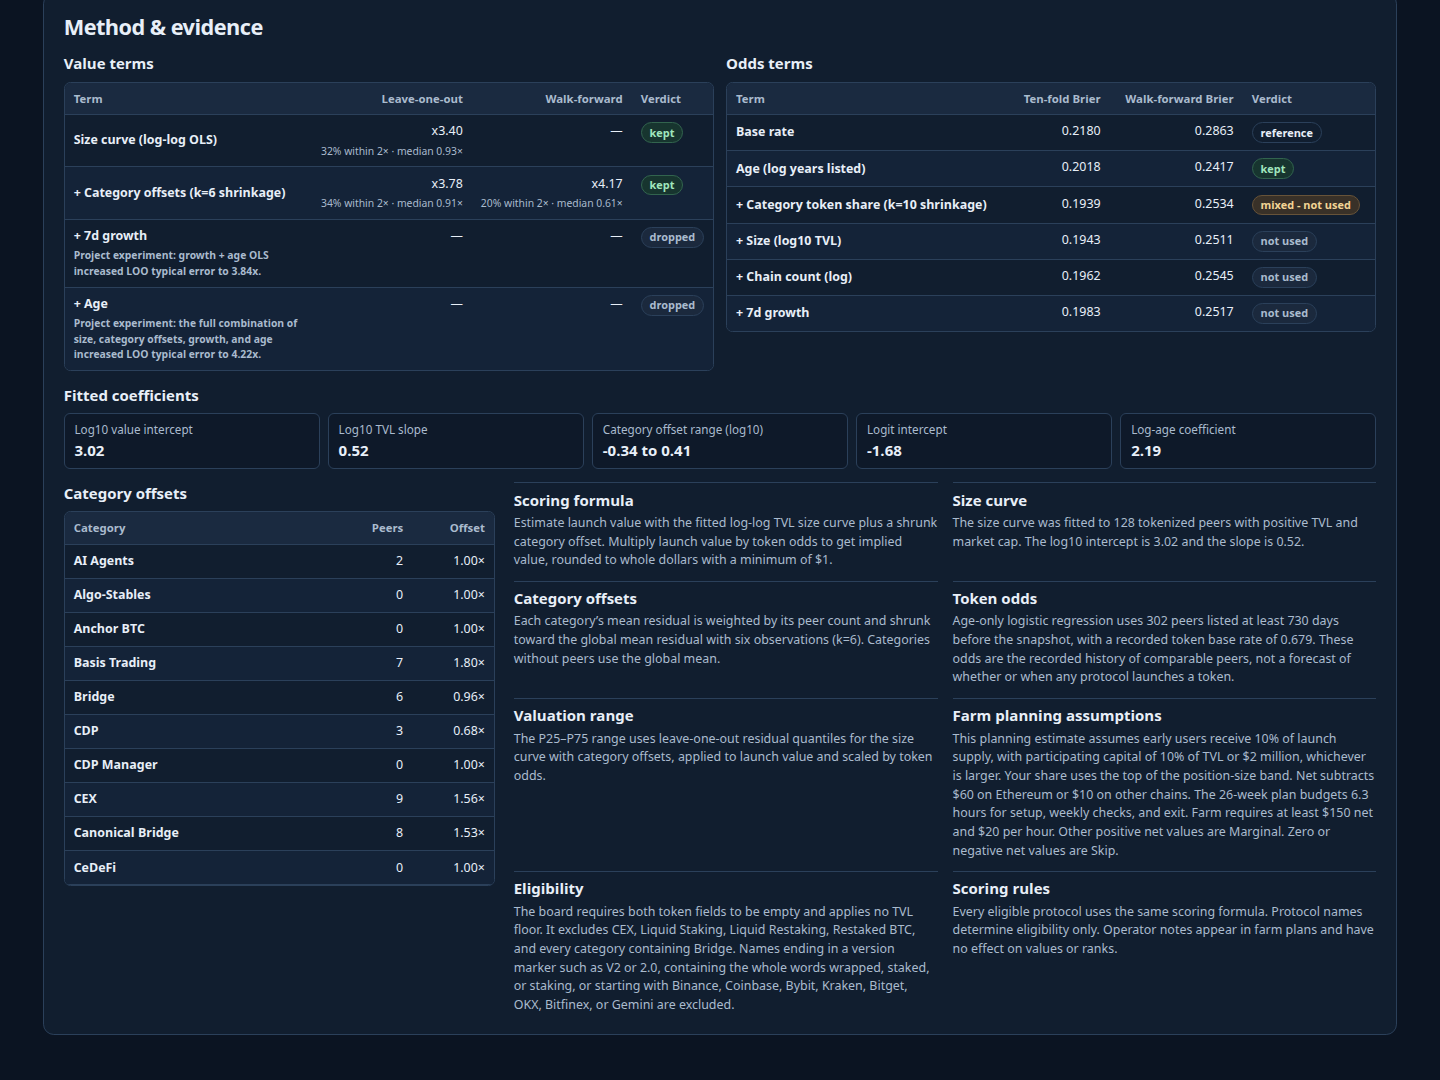
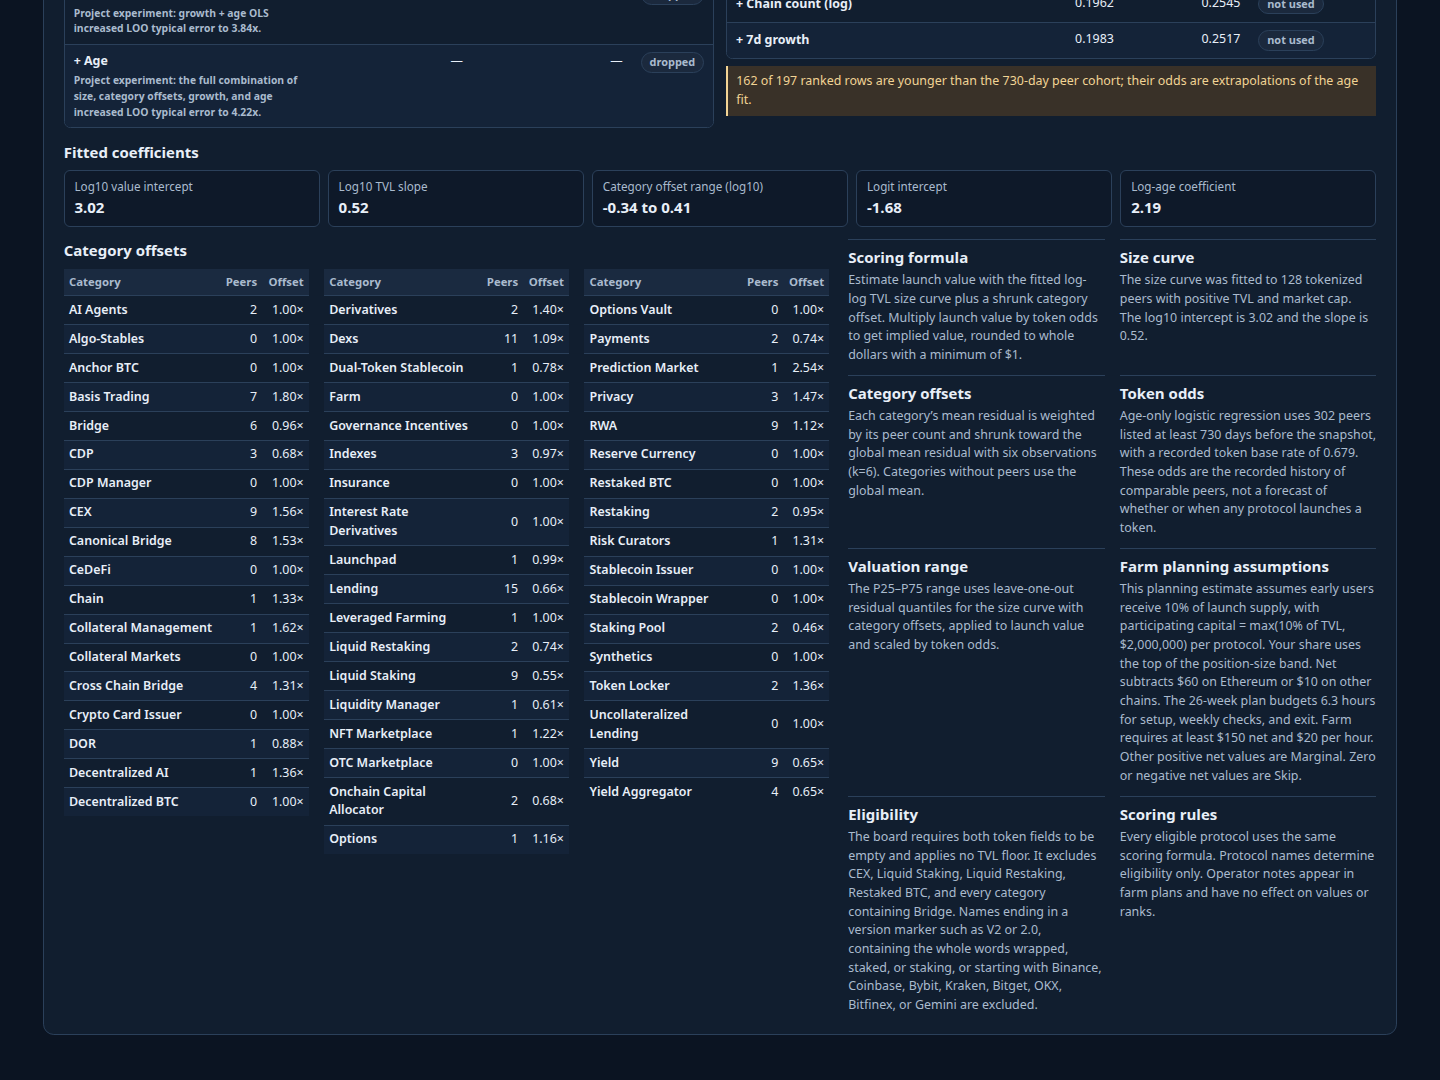
v2.1: Gemini-critique fixes — null-Brier relabel, size-only walk-forward + offsets trade-off note, sig4 detail formula, full offsets table, extrapolation flags, checksum invariant, explicit capital formula, OnRe note rewording

Changed region(s): [[0.0312, 0.0, 0.9688, 0.9472]]

diff --git a/lib/model.ts b/lib/model.ts
@@ -145,7 +145,7 @@ function isEligible(protocol: Protocol): boolean {
 
 // Editorial field notes from the operator. These only extend the generated farm plans.
 const OPERATOR_NOTES = new Map([
-  ['onre', 'Field note from the operator, who farms OnRe directly: the reinsurance vaults have run for years without a depeg the operator can recall, liquidity has always been sufficient to enter and exit, and the points balance keeps accruing while the position is held.'],
+  ['onre', 'Field note from the operator, who farms OnRe directly: the reinsurance vaults have run since its July 2025 listing without a depeg the operator can recall, liquidity has always been sufficient to enter and exit, and the points balance keeps accruing while the position is held.'],
   ['plume-vaults', "Caution from the operator's desk check (late November 2026): Plume Vaults routes exposure into RWA yield vaults such as YieldFi yUSD, whose redemption is not instant - NAV is updated twice a week, redemptions wait for two updates and depend on the manager setting funds aside - and the only yUSD pool on Plume held about $5 of liquidity with no trades. Verify your exit route with a small test redemption before depositing size."],
 ]);
 
@@ -272,7 +272,8 @@ function fitAndValidateValue(peers: ValuePeer[]) {
   });
   const { train, test } = halfSplit(peers);
   const earlierFit = fitValue(train);
-  const walkForward = test.map(p => earlierFit.size(p.logTvl) + earlierFit.offset(p.category) - p.logMcap);
+  const walkForwardSize = test.map(p => earlierFit.size(p.logTvl) - p.logMcap);
+  const walkForwardOffsets = test.map(p => earlierFit.size(p.logTvl) + earlierFit.offset(p.category) - p.logMcap);
   const sorted = [...offsetResiduals].sort((a, b) => a - b);
   const quantile = (f: number) => sorted[Math.max(0, Math.min(sorted.length - 1, Math.floor(f * sorted.length)))];
   const q25 = quantile(0.25);
@@ -282,7 +283,10 @@ function fitAndValidateValue(peers: ValuePeer[]) {
     validation: {
       value_peers: peers.length,
       loo: { size_only: valueMetrics(sizeResiduals), size_offsets: valueMetrics(offsetResiduals) },
-      walk_forward: { size_offsets: valueMetrics(walkForward) },
+      walk_forward: {
+        size_only: valueMetrics(walkForwardSize),
+        size_offsets: valueMetrics(walkForwardOffsets),
+      },
       residual_q25: q25,
       residual_q75: q75,
       range_coverage: offsetResiduals.filter(r => r >= q25 && r <= q75).length / peers.length,
@@ -494,6 +498,13 @@ export function buildRadar(snapshot: Snapshot) {
     });
   const offsets = categoryOffsets.map(row => row.offset_log10);
   const total = snapshot.protocols.length;
+  const { loo, walk_forward: walkForward } = value.validation;
+  const looSize = loo.size_only.typical_error_x.toFixed(2);
+  const looOff = loo.size_offsets.typical_error_x.toFixed(2);
+  const w2Size = (loo.size_only.within2x * 100).toFixed(1) + '%';
+  const w2Off = (loo.size_offsets.within2x * 100).toFixed(1) + '%';
+  const wfSize = walkForward.size_only.typical_error_x.toFixed(2);
+  const wfOff = walkForward.size_offsets.typical_error_x.toFixed(2);
   const radar = {
     as_of: snapshot.as_of,
     floor_usd: snapshot.floor_usd,
@@ -516,17 +527,18 @@ export function buildRadar(snapshot: Snapshot) {
       offsets: 'Each category’s mean residual is weighted by its peer count and shrunk toward the global mean residual with six observations (k=6). Categories without peers use the global mean.',
       odds: `Age-only logistic regression uses ${oddsPeers.length} peers listed at least 730 days before the snapshot, with a recorded token base rate of ${oddsModel.validation.base_rate.toFixed(3)}. These odds are the recorded history of comparable peers, not a forecast of whether or when any protocol launches a token.`,
       range: 'The P25–P75 range uses leave-one-out residual quantiles for the size curve with category offsets, applied to launch value and scaled by token odds.',
-      verdict: 'This planning estimate assumes early users receive 10% of launch supply, with participating capital of 10% of TVL or $2 million, whichever is larger. Your share uses the top of the position-size band. Net subtracts $60 on Ethereum or $10 on other chains. The 26-week plan budgets 6.3 hours for setup, weekly checks, and exit. Farm requires at least $150 net and $20 per hour. Other positive net values are Marginal. Zero or negative net values are Skip.',
+      verdict: `This planning estimate assumes early users receive 10% of launch supply, with participating capital = max(${FARM_PARTICIPATION_RATE * 100}% of TVL, $${FARM_PARTICIPATION_FLOOR_USD.toLocaleString('en-US')}) per protocol. Your share uses the top of the position-size band. Net subtracts $60 on Ethereum or $10 on other chains. The 26-week plan budgets 6.3 hours for setup, weekly checks, and exit. Farm requires at least $150 net and $20 per hour. Other positive net values are Marginal. Zero or negative net values are Skip.`,
       eligibility: 'The board requires both token fields to be empty and applies no TVL floor. It excludes CEX, Liquid Staking, Liquid Restaking, Restaked BTC, and every category containing Bridge. Names ending in a version marker such as V2 or 2.0, containing the whole words wrapped, staked, or staking, or starting with Binance, Coinbase, Bybit, Kraken, Bitget, OKX, Bitfinex, or Gemini are excluded.',
       scoring: 'Every eligible protocol uses the same scoring formula. Protocol names determine eligibility only. Operator notes appear in farm plans and have no effect on values or ranks.',
     },
     validation: { ...value.validation, odds: oddsModel.validation },
     evidence: {
       value_terms: [
-        { term: 'Size curve (log-log OLS)', verdict: 'kept', loo: value.validation.loo.size_only },
+        { term: 'Size curve (log-log OLS)', verdict: 'kept', loo: loo.size_only, walk_forward: walkForward.size_only },
         {
           term: '+ Category offsets (k=6 shrinkage)', verdict: 'kept',
-          loo: value.validation.loo.size_offsets, walk_forward: value.validation.walk_forward.size_offsets,
+          loo: loo.size_offsets, walk_forward: walkForward.size_offsets,
+          detail: `Kept for the within-2x and walk-forward gains: LOO typical error worsens (x${looSize} → x${looOff}) while LOO within-2x improves (${w2Size} → ${w2Off}) and walk-forward typical error improves (x${wfSize} → x${wfOff}).`,
         },
         { term: '+ 7d growth', verdict: 'dropped', detail: `Project experiment: growth + age OLS increased LOO typical error to ${EXPERIMENT_GROWTH_AGE_LOO_ERROR_X.toFixed(2)}x.` },
         { term: '+ Age', verdict: 'dropped', detail: `Project experiment: the full combination of size, category offsets, growth, and age increased LOO typical error to ${EXPERIMENT_FULL_COMBO_LOO_ERROR_X.toFixed(2)}x.` },

diff --git a/dashboard/app.js b/dashboard/app.js
@@ -18,6 +18,7 @@ const usd = value => dollars.format(value);
 const compact = value => compactDollars.format(value);
 const pct = value => percent.format(value);
 const fixed = value => value.toFixed(2);
+const sig4 = value => String(Number(value.toPrecision(4)));
 const miss = metrics => `x${fixed(metrics.typical_error_x)}`;
 const categoryName = category => category ?? 'Uncategorized';
 const range = (row, format) => `${format(row.range_low_usd)} – ${format(row.range_high_usd)}`;
@@ -65,7 +66,7 @@ function renderOverview() {
     ['Leave-one-out miss', miss(loo.size_offsets), `Typical error · ${number(value_peers)} peers`],
     ['Walk-forward miss', miss(walk_forward.size_offsets), 'Typical error · later-listed half'],
     ['Range honesty', pct(range_coverage), 'Held-out peers inside P25–P75'],
-    ['Odds Brier · ten-fold', odds.tenfold_brier.toFixed(4), `Base rate ${odds.base_brier_tenfold.toFixed(4)}`],
+    ['Odds Brier · ten-fold', odds.tenfold_brier.toFixed(4), `Null Brier ${odds.base_brier_tenfold.toFixed(4)} · base rate ${(odds.base_rate * 100).toFixed(1)}%`],
     ['Terms surviving', `${valueKept} value · ${oddsKept} odds`, `Odds kept ${oddsKept} of ${evidence.odds_terms.length} tested`],
     ['Farm-worthy', number(farmCount), `Of ${number(accounting.ranked)} ranked protocols`],
     ['Watchlist coverage', `${watchCount}/${watchlist_total}`, 'Watchlist protocols ranked'],
@@ -89,11 +90,14 @@ function renderOverview() {
   const excluded = excluded_by_reason.reduce((value, item) => value + item.count, 0);
   const accounted = tokenized + rows.length + excluded;
   const actualChecksum = checksum(rows);
+  const checksumMatches = actualChecksum === radar.checksum;
   const checks = [
     [`${number(rows.length)} ranked rows`, rows.length === ranked],
     [`${usd(sum)} total implied`, sum === radar.board_value_sum_usd],
     [`${watchCount}/${watchlist_total} watchlist rows`, watchCount === watchlist_total],
-    [`Board checksum ${actualChecksum}`, actualChecksum === radar.checksum],
+    [checksumMatches
+      ? `Board checksum ${actualChecksum} · ${number(rows.length)} / ${number(rows.length)} rows recomputed in this page · matched`
+      : `Board checksum ${actualChecksum} · in-page recompute mismatch`, checksumMatches],
     [`${number(accounted)} / ${number(total)} accounted`,
       accounted === total && total === tokenized + pretoken && pretoken === ranked + excluded_total
         && excluded === excluded_total && rows.length === ranked],
@@ -146,14 +150,18 @@ function renderMethod() {
     ));
   }
   const base = validation.odds;
-  byId('odds-terms').append(evidenceRow('Base rate', [
+  const oddsTerms = byId('odds-terms');
+  oddsTerms.append(evidenceRow('Null Brier (base-rate predictor)', [
     { value: base.base_brier_tenfold.toFixed(4) }, { value: base.base_brier_walk_forward.toFixed(4) },
-  ], 'reference'));
+  ], 'reference', `Base rate ${(base.base_rate * 100).toFixed(1)}% — every peer predicted at the base rate`));
   for (const term of evidence.odds_terms) {
-    byId('odds-terms').append(evidenceRow(term.term, [
+    oddsTerms.append(evidenceRow(term.term, [
       { value: term.tenfold_brier.toFixed(4) }, { value: term.walk_forward_brier.toFixed(4) },
     ], term.verdict));
   }
+  const young = radar.rows.filter(row => row.age_days < 730).length;
+  oddsTerms.closest('section').append(el('p',
+    `${young} of ${radar.rows.length} ranked rows are younger than the 730-day peer cohort; their odds are extrapolations of the age fit.`, 'caution'));
 
   const fit = evidence.fitted;
   byId('coefficients').append(...facts([
@@ -163,12 +171,25 @@ function renderMethod() {
     ['Logit intercept', fixed(fit.logit_intercept)],
     ['Log-age coefficient', fixed(fit.logit_coef_log_age)],
   ]).children);
-  for (const entry of category_offsets) {
-    const row = el('tr');
-    const label = el('th', categoryName(entry.category));
-    label.scope = 'row';
-    row.append(label, el('td', number(entry.peers), 'num'), el('td', `${fixed(entry.offset_x)}×`, 'num'));
-    byId('offsets').append(row);
+  for (let i = 0; i < 3; i++) {
+    const start = Math.ceil(i * category_offsets.length / 3);
+    const end = Math.ceil((i + 1) * category_offsets.length / 3);
+    const table = el('table');
+    table.setAttribute('aria-label', `Category offsets, part ${i + 1} of 3`);
+    const head = table.createTHead().insertRow();
+    for (const title of ['Category', 'Peers', 'Offset']) {
+      const cell = el('th', title, title === 'Category' ? undefined : 'num');
+      cell.scope = 'col';
+      head.append(cell);
+    }
+    const body = table.createTBody();
+    for (const entry of category_offsets.slice(start, end)) {
+      const row = body.insertRow();
+      const label = el('th', categoryName(entry.category));
+      label.scope = 'row';
+      row.append(label, el('td', number(entry.peers), 'num'), el('td', `${fixed(entry.offset_x)}×`, 'num'));
+    }
+    byId('offsets').append(table);
   }
   const labels = {
     formula: 'Scoring formula', fit: 'Size curve', offsets: 'Category offsets', odds: 'Token odds',
@@ -224,12 +245,15 @@ function renderProfile(row, offsets) {
   ]);
   const launchFormula = row.tvl_usd === 0
     ? 'Zero recorded TVL gives a launch value of'
-    : `10^(${fixed(fitted.intercept)} + ${fixed(fitted.slope)} × log10(${number(row.tvl_usd)})) × ${fixed(offset.offset_x)} category offset ≈`;
+    : `10^(${sig4(fitted.intercept)} + ${sig4(fitted.slope)} × log10(${number(row.tvl_usd)})) × ${sig4(offset.offset_x)} category offset ≈`;
   const arithmetic = el('p', `${launchFormula} `, 'formula');
   arithmetic.append(el('strong', usd(row.launch_value_usd)));
   const oddsLine = `Logistic on log age fitted on ${number(odds.peers)} peers (base rate ${(odds.base_rate * 100).toFixed(1)}%). At ${fixed(years)} years, this row’s odds are ${pct(row.odds)}.`;
-  valuation.append(arithmetic, el('p', oddsLine),
-    el('p', `${usd(row.launch_value_usd)} launch × ${pct(row.odds)} odds ≈ ${usd(row.implied_value_usd)} implied.`, 'formula'));
+  valuation.append(arithmetic, el('p', oddsLine));
+  if (row.age_days < 730) {
+    valuation.append(el('p', 'Extrapolated — this protocol is younger than the 2-year peer cohort (protocols listed at least 730 days before the snapshot) that the odds were fitted on, so its odds extend the age fit below the cohort’s range.', 'caution'));
+  }
+  valuation.append(el('p', `${usd(row.launch_value_usd)} launch × ${pct(row.odds)} odds ≈ ${usd(row.implied_value_usd)} implied.`, 'formula'));
   const economics = detailBlock('Farm economics', [
     ['Position band top', usd(row.farm_budget_usd)],
     ['Participating capital', usd(participating)],

diff --git a/dashboard/app.css b/dashboard/app.css
@@ -117,12 +117,11 @@ input[type="checkbox"] { accent-color: var(--accent); }
 
 .table-scroll { overflow: auto; border: 1px solid var(--line); border-radius: .43rem; }
 .ranking-scroll { max-height: 35rem; }
-.offset-scroll { max-height: 25rem; }
 table { width: 100%; border-collapse: separate; border-spacing: 0; font-size: .83rem; }
 .rankings { min-width: 67rem; table-layout: auto; }
 th, td { padding: .48rem .6rem; text-align: left; vertical-align: middle; border-bottom: 1px solid var(--line); }
 thead th { background: var(--raised); color: var(--muted); white-space: nowrap; font-size: .76rem; }
-.ranking-scroll thead th, .offset-scroll thead th { position: sticky; top: 0; z-index: 1; }
+.ranking-scroll thead th { position: sticky; top: 0; z-index: 1; }
 tbody tr:last-child > * { border-bottom: 0; }
 tbody tr:nth-child(even) { background: #142338; }
 .rankings tbody .alternate { background: #142338; }
@@ -180,6 +179,14 @@ li + li { margin-top: .29rem; }
 .detail-block { min-width: 0; padding: .78rem; border: 1px solid var(--line); border-radius: .43rem; background: #0e1929; }
 .detail-block h3 { margin-bottom: .4rem; }
 .detail-block p { margin-top: .5rem; color: var(--muted); font-size: .83rem; }
+.caution, .detail-block .caution {
+  margin-top: .5rem;
+  padding: .4rem .55rem;
+  border-left: 2px solid var(--amber);
+  background: #393128;
+  color: var(--amber);
+  font-size: .83rem;
+}
 .facts > div { display: flex; justify-content: space-between; gap: .55rem; padding: .24rem 0; border-bottom: 1px solid #22334b; font-size: .83rem; }
 .facts > div:last-child { border-bottom: 0; }
 .facts dt { color: var(--muted); }
@@ -199,7 +206,11 @@ li + li { margin-top: .29rem; }
 .coefficients > div { padding: .48rem .65rem; border: 1px solid var(--line); border-radius: .4rem; background: #0e1929; }
 .coefficients dt { color: var(--muted); font-size: .78rem; }
 .coefficients dd { font-weight: 700; font-variant-numeric: tabular-nums; }
-.method-grid { display: grid; grid-template-columns: minmax(15rem, 1fr) minmax(0, 2fr); gap: 1.25rem; }
+.method-grid { display: grid; grid-template-columns: minmax(0, 1.45fr) minmax(0, 1fr); gap: 1.25rem; }
+.offsets-grid { display: flex; gap: 1rem; align-items: flex-start; }
+.offsets-grid table { flex: 1; width: 0; font-size: .83rem; }
+.offsets-grid th, .offsets-grid td { padding: .31rem .35rem; }
+.offsets-grid tbody th { font-weight: 600; }
 .method-copy { display: grid; grid-template-columns: repeat(2, minmax(0, 1fr)); gap: .7rem 1rem; margin-top: .85rem; }
 .method-copy > div { padding-top: .38rem; border-top: 1px solid var(--line); }
 .method-copy dt { font-weight: 700; }
@@ -218,4 +229,6 @@ li + li { margin-top: .29rem; }
 @media (max-width: 34rem) {
   .validation, .coefficients { grid-template-columns: repeat(2, minmax(0, 1fr)); }
   .method-copy { grid-template-columns: 1fr; }
+  .offsets-grid { flex-direction: column; }
+  .offsets-grid table { width: 100%; }
 }

diff --git a/dashboard/index.html b/dashboard/index.html
@@ -109,12 +109,7 @@
         <div class="method-grid">
           <section aria-labelledby="offsets-title">
             <h3 id="offsets-title">Category offsets</h3>
-            <div class="table-scroll offset-scroll" tabindex="0" role="region" aria-label="Scrollable category offsets">
-              <table aria-labelledby="offsets-title">
-                <thead><tr><th scope="col">Category</th><th scope="col" class="num">Peers</th><th scope="col" class="num">Offset</th></tr></thead>
-                <tbody id="offsets"></tbody>
-              </table>
-            </div>
+            <div id="offsets" class="offsets-grid"></div>
           </section>
           <dl id="method" class="method-copy"></dl>
         </div>
